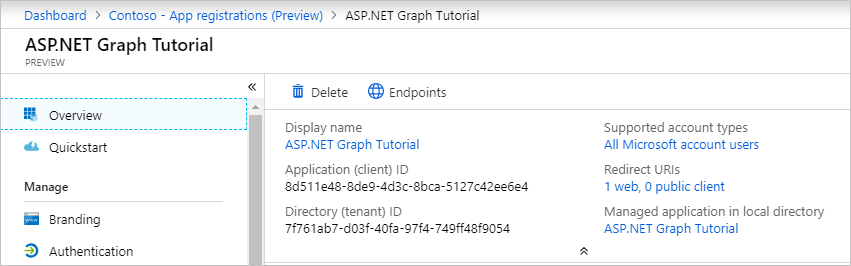
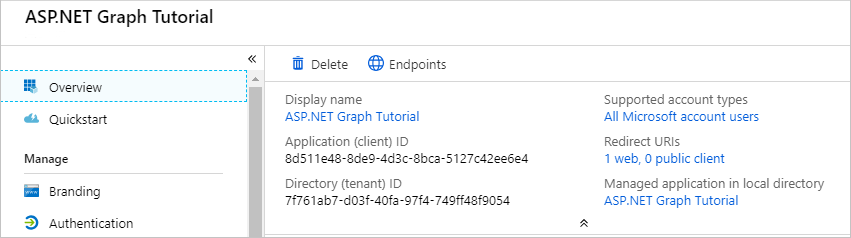
Removed preview from app registration

diff --git a/Demos/03-add-msgraph/README.md b/Demos/03-add-msgraph/README.md
@@ -16,7 +16,7 @@ If you don't have a Microsoft account, there are a couple of options to get a fr
 
 1. Open a browser and navigate to the [Azure Active Directory admin center](https://aad.portal.azure.com). Login using a **personal account** (aka: Microsoft Account) or **Work or School Account**.
 
-1. Select **Azure Active Directory** in the left-hand navigation, then select **App registrations (Preview)** under **Manage**.
+1. Select **Azure Active Directory** in the left-hand navigation, then select **App registrations** under **Manage**.
 
     ![A screenshot of the App registrations ](/tutorial/images/aad-portal-app-registrations.png)
 

diff --git a/tutorial/register-app.md b/tutorial/register-app.md
@@ -8,7 +8,7 @@ In this exercise, you will create a new Azure AD web application registration us
 
 1. Open a browser and navigate to the [Azure Active Directory admin center](https://aad.portal.azure.com). Login using a **personal account** (aka: Microsoft Account) or **Work or School Account**.
 
-1. Select **Azure Active Directory** in the left-hand navigation, then select **App registrations (Preview)** under **Manage**.
+1. Select **Azure Active Directory** in the left-hand navigation, then select **App registrations** under **Manage**.
 
     ![A screenshot of the App registrations ](./images/aad-portal-app-registrations.png)
 
